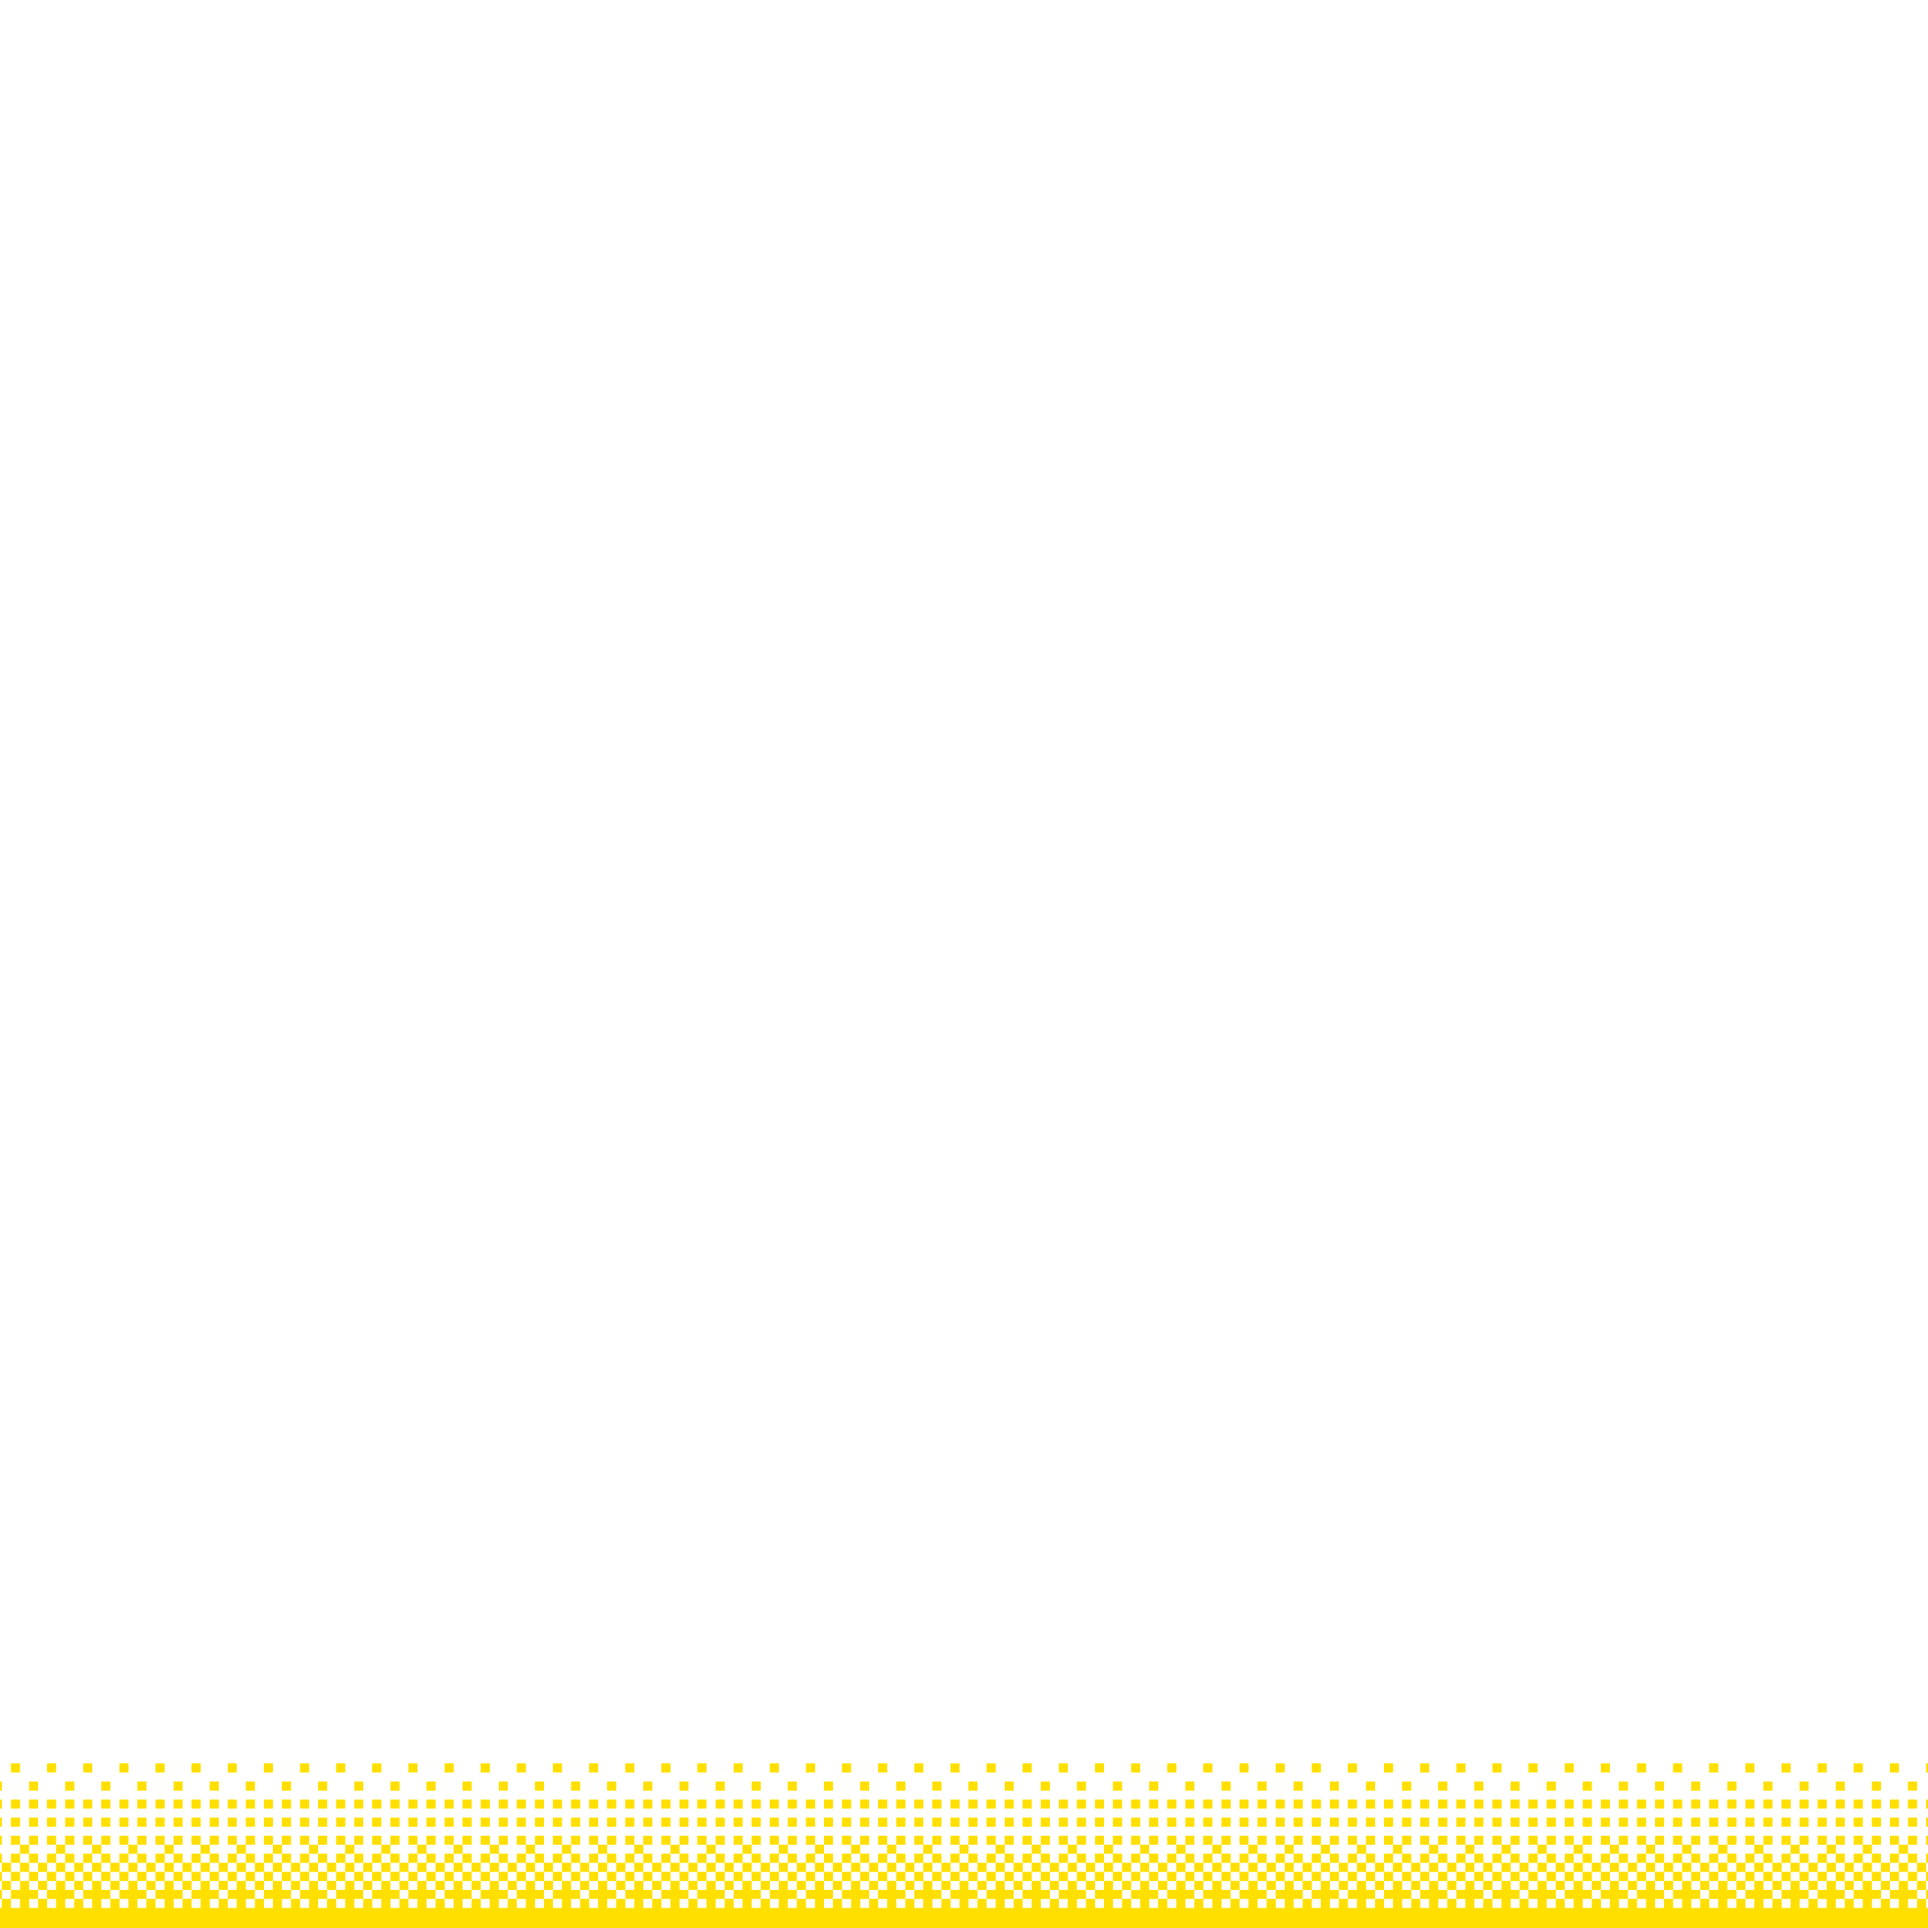
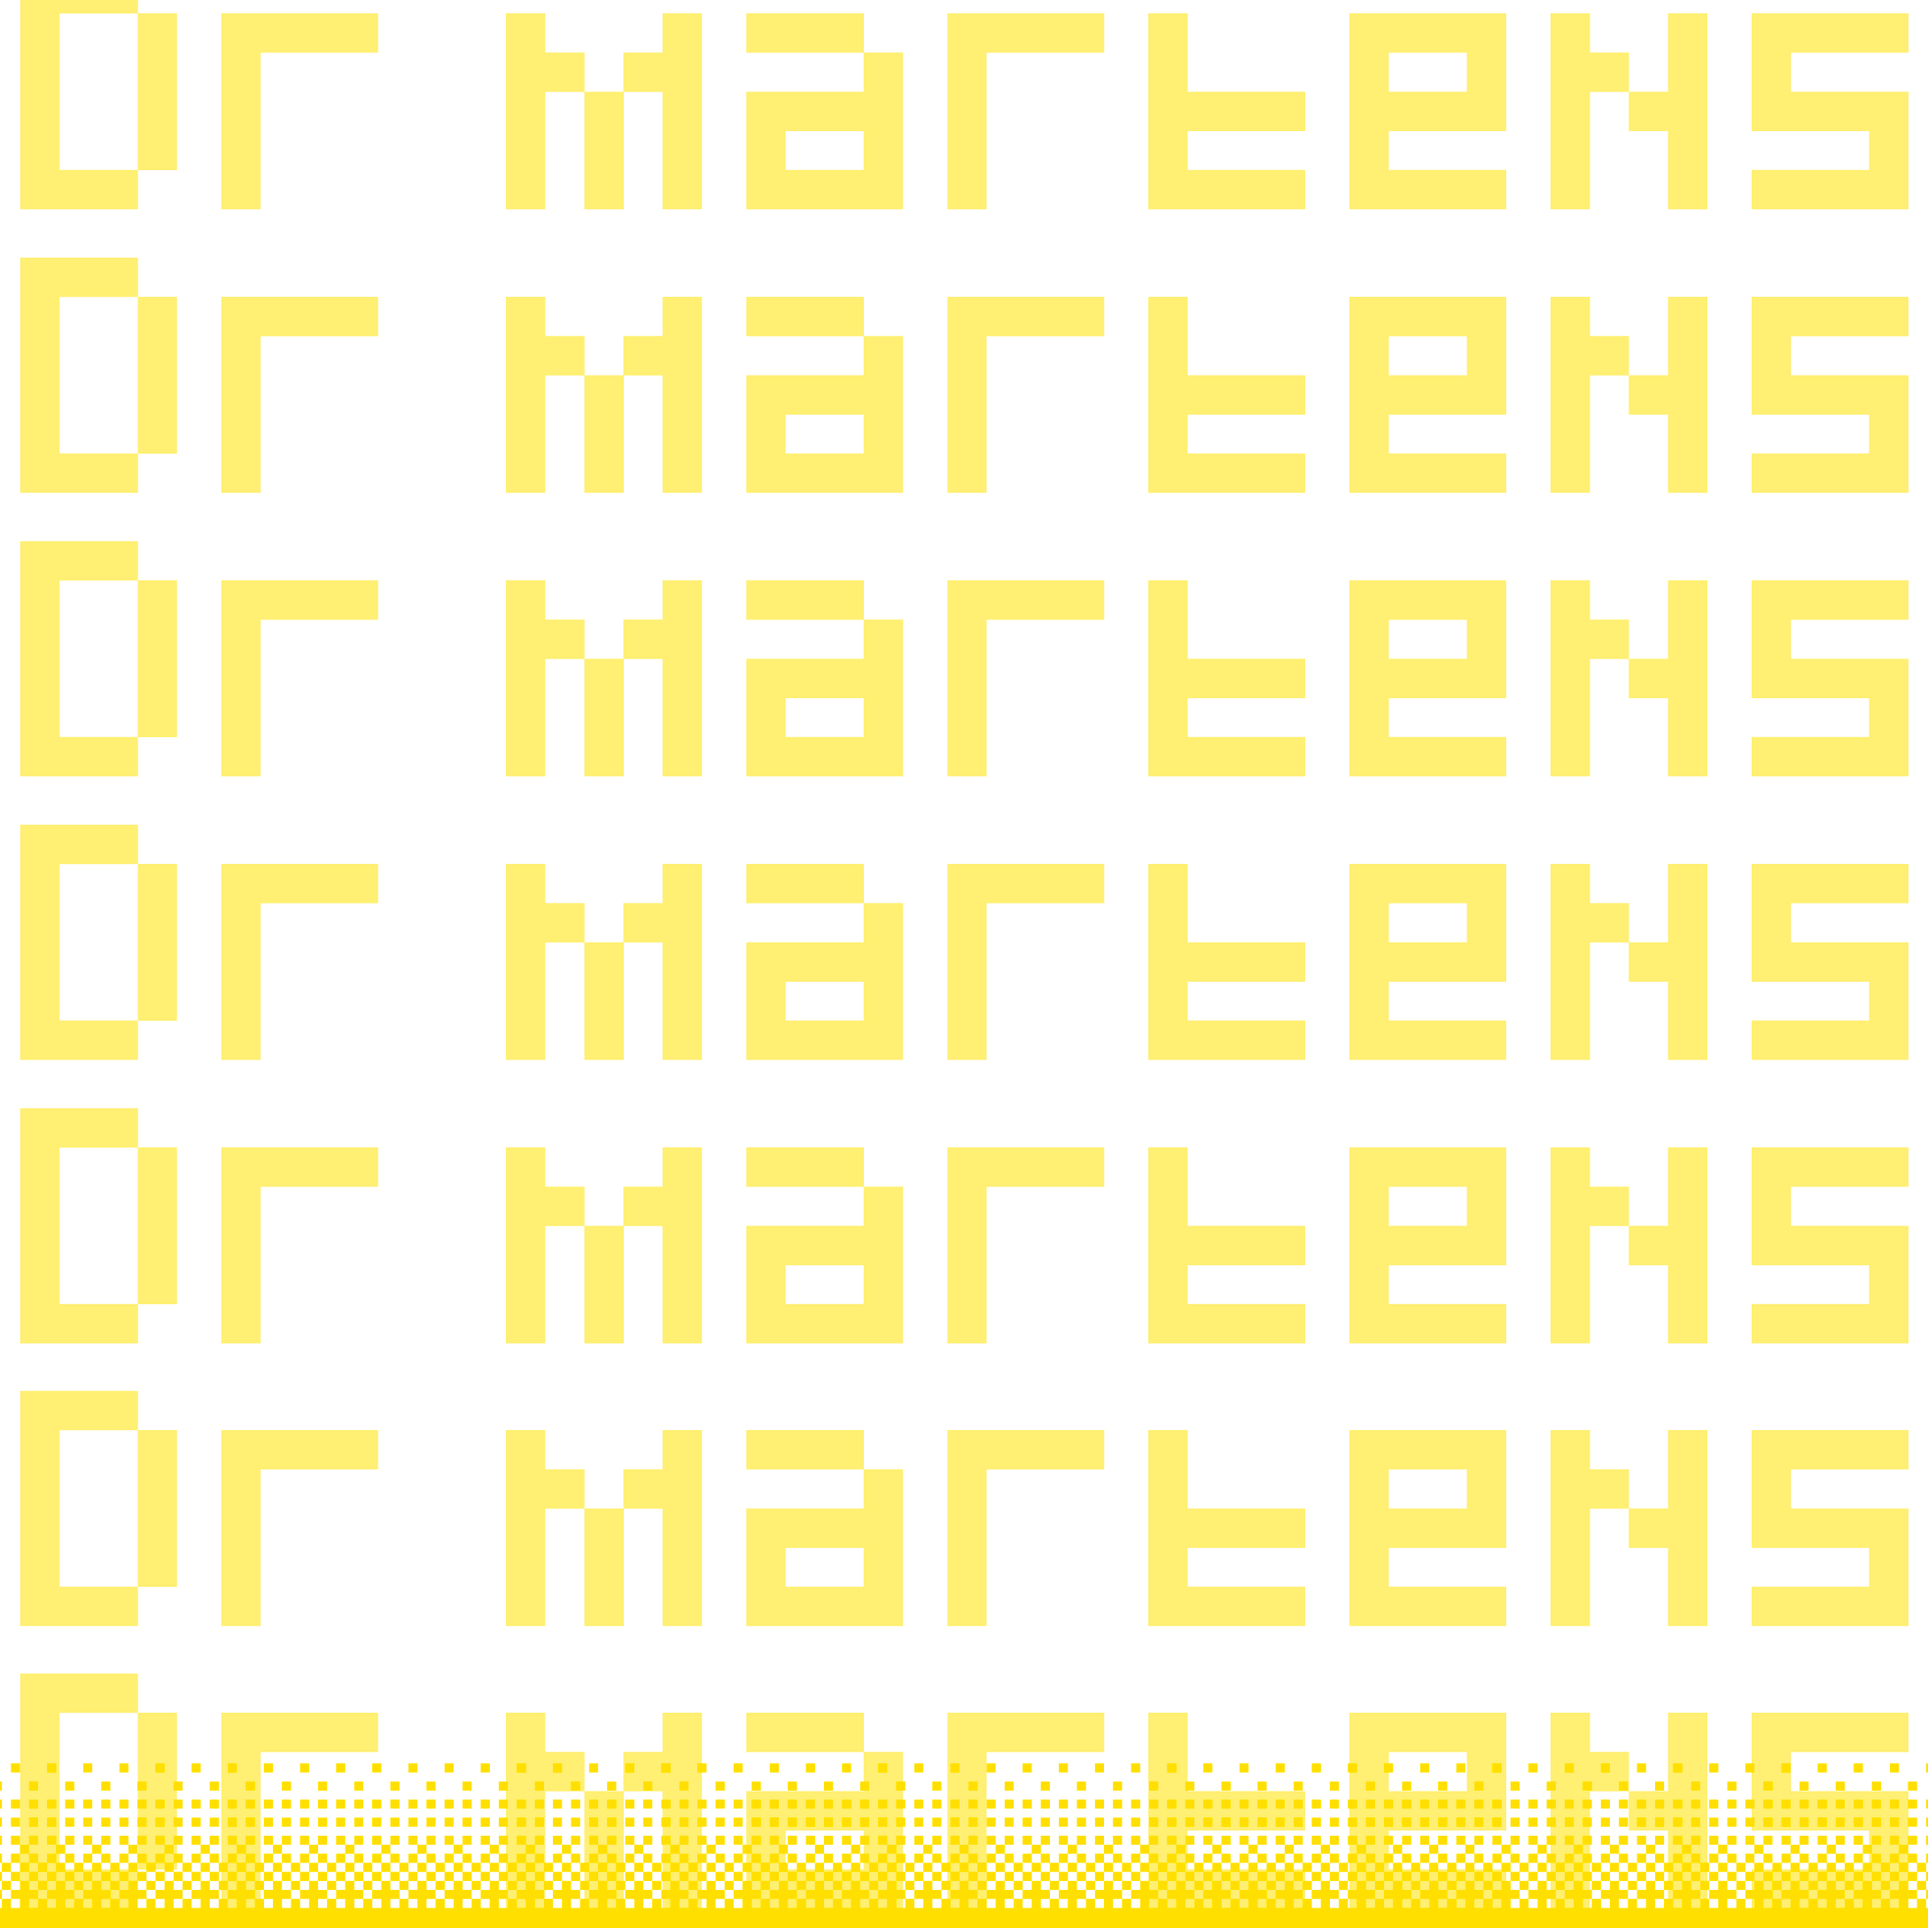
Fixed

diff --git a/contents/gallery/drmartens/post.html b/contents/gallery/drmartens/post.html
@@ -10,11 +10,11 @@
     <main class="mainWrap">
         <div class="postContainer">
             <img id="bg" src="./bg.png"/>
-            <img id="bgLogo" src="./bglogo.png"/>
+            <!-- <img id="bgLogo" src="./bglogo.png"/> -->
             <p>신발을 클릭해보세요!</p>
             <a target="_blank" href="https://drmartens.co.kr"><img id="shoes" src="./shoes.png"/></a>
             <img id="miruLogo" src="./mirulogo.png"/>
-            <img id="drLogo" src="./logo.png"/>
+            <!-- <img id="drLogo" src="./logo.png"/> -->
         </div>
     </main>
 </body>
@@ -46,7 +46,7 @@
     p {
         position: fixed;
         top: 0;
-        margin-top: 140px;
+        margin-top: 60px;
         font-size: 20px;
         font-weight: 900;
         letter-spacing: -1px;
